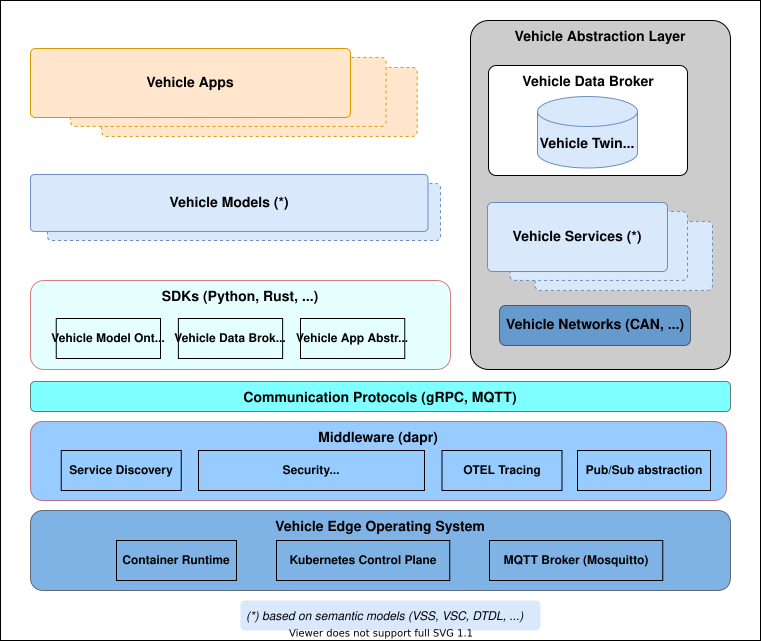
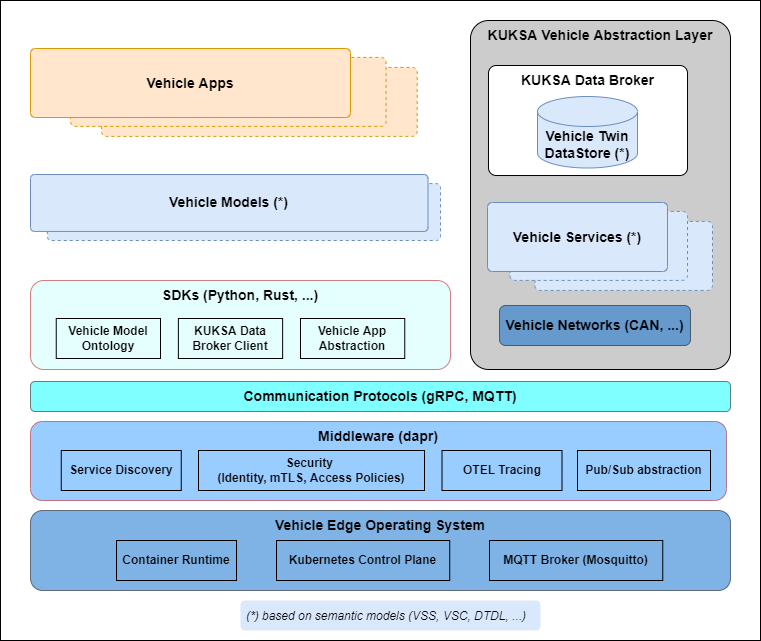
Added detailed description of proxy configuration (#29)
* Added detailed description of proxy configuration
* Solved spelling mistakes
* Solved broken link
* Added and adjusted overview picture
* Adjusted overview picture

diff --git a/content/en/_index.html b/content/en/_index.html
@@ -31,7 +31,7 @@ and GitHub Actions workflow, and comfortable setup of the development environmen
 {{% /blocks/feature %}}
 
 
-{{% blocks/feature icon="fa-solid fa-code" title="Vehicle App Programming Model" url="docs/development-model.md" %}}
+{{% blocks/feature icon="fa-solid fa-code" title="Vehicle App Programming Model" url="docs/development_model.md" %}}
 Simplify coding and debugging of _Vehicle Apps_ that accessing vehicle data points and modifying vehicle functions 
 using the provided SDK for the different programming languages that delegates to the _Vehicle Abstraction Layer_.
 {{% /blocks/feature %}}
@@ -43,17 +43,17 @@ This makes it possible for _Vehicle Apps_ to be portable across different electr
 e.g. the _Vehicle Apps_ do not care whether the seat is controlled via CAN, LIN or some other physical interface.
 {{% /blocks/feature %}}
 
-{{% blocks/feature icon="fab fa-github" title="GitHub Actions Workflow Blueprint" url="docs/concepts/vehicle_app_releases/" %}}
+{{% blocks/feature icon="fab fa-github" title="GitHub Actions Workflow Blueprint" url="docs/concepts/deployment_model/vehicle_app_releases/" %}}
 Providing ready-to-use GitHub workflows to check the _Vehicle App_, build images for multi architectures, scan it, 
 execute integration tests and release the _Vehicle App_ to allow the developer to focus on the development of the _Vehicle App_.
 {{% /blocks/feature %}}
 
-{{% blocks/feature icon="fab fa-github" title="Automated Release Process" url="docs/concepts/vehicle_app_releases/" %}}
+{{% blocks/feature icon="fab fa-github" title="Automated Release Process" url="docs/concepts/deployment_model/vehicle_app_releases/" %}}
 Providing a release workflow to generate release artifacts and documentation out of the CI workflow results and 
 push it to the GitHub container registry to be used by a deployment system.
 {{% /blocks/feature %}}
 
-{{% blocks/feature icon="fa-solid fa-box" title="Deployment Model" url="docs/concepts/deployment-model/" %}}
+{{% blocks/feature icon="fa-solid fa-box" title="Deployment Model" url="docs/concepts/deployment_model/" %}}
 Running and deploying _Vehicle App_ as OCI-compliant container to increase the flexibility to support different programming languages 
 and runtimes to accelerate innovation and development.
 {{% /blocks/feature %}}

diff --git a/assets/scss/section-index.scss b/assets/scss/section-index.scss
@@ -1,0 +1,18 @@
+.section-index {
+
+    .entry {
+        padding: 0px 15px;;
+    }
+
+    h5 {
+        margin-bottom: 0;
+
+        a {
+            font-weight: 700;
+        }
+    }
+
+    p {
+        margin-top: 0;
+    }
+}

diff --git a/content/en/docs/tutorials/quickstart/_index.md b/content/en/docs/tutorials/quickstart/_index.md
@@ -6,6 +6,7 @@ description: >
   Learn how to setup and explore the provided development environment.
 aliases:
   - /docs/tutorials/setup_and_explore_development_environment.md
+  - /docs/tutorials/quickstart.md
   - /docs/setup_and_explore_development_environment.md
 ---
 
@@ -45,55 +46,14 @@ To be able to use the DevContainer, you have to make sure that you fulfill the f
   ```
 
 {{% alert title="Proxy configuration" %}}
-A non proxy configuration is used by default. If you are working behind a corporate proxy you will need to specify proxy settings.
+A non proxy configuration is used by default. If you are working behind a corporate proxy you will need to specify proxy settings: [Working behind a proxy](/docs/tutorials/quickstart/behind_proxy)
 {{% /alert %}}
 
-<details>
-<summary>Please expand for information on configuring proxy settings</summary>
-
-A template configuration using proxies exists in `.devcontainer/Dockerfile.Proxy` and by setting the environment variable `DEVCONTAINER_PROXY` to `.Proxy` the file
-`.devcontainer/Dockerfile.Proxy` will be used instead of `.devcontainer/Dockerfile`.
-
-The template configuration uses the following default configuration:
-
-```
-ENV HTTP_PROXY="http://172.17.0.1:${PROXY_PORT:-3128}"
-```
-
-- If your proxy is not available on `172.17.0.1` then you must modify `.devcontainer/Dockerfile.Proxy`.
-- If your proxy does not use 3128 as port you can set another port in the environment variable `DEVCONTAINER_PROXY_PORT`
-
-#### Windows
-
-1. Edit environment variables for your account
-2. Create an environment variable with name the `DEVCONTAINER_PROXY` and with the value `.Proxy` for your account
-   - Don't forget (dot) in value of the environment variable
-3. If you are using a different Port than 3128 for your Proxy, you have to set another environment variable as follows:
-   - DEVCONTAINER_PROXY_PORT=<PortNumber>
-4. Restart Visual Studio Code to pick up the new environment variable
-
-#### macOS & Linux
-
-```
-echo "export DEVCONTAINER_PROXY=.Proxy" >> ~/.bash_profile
-source ~/.bash_profile
-```
-
-### Proxy troubleshooting
-
-If you experience issues during initial DevContainer build and you want to start over, then you want to make sure you clean all images and volumes in Docker Desktop, otherwise cache might be used. Use the Docker Desktop UI to remove all volumes and containers.
-
-Proxy settings in `~/.docker/config.json` will override settings in `.devcontainer/Dockerfile.Proxy`, which can cause problems.
-In case the DevContainer is still not working, check if proxy settings are set correctly in the Docker user profile (`~/.docker/config.json`), see [Docker Documentation](https://docs.docker.com/network/proxy/) for more details.
-Verify that the `noProxy` setting in `~/.docker/config.json` (if existing) is compatible with the setting of `NO_PROXY` in `.devcontainer/Dockerfile.Proxy`.
-The development environment relies on communication to localhost (e.g. localhost, 127.0.0.1) and it is important that the proxy setting is correct so that connections to localhost are not forwarded to the proxy.
-
-</details>
 
 With following steps you will clone and set up your development environment on your own machine using just Visual Studio Code.
 
 1. Start Visual Studio Code
-2. Press <kbd>F1</kbd> and run the command `Remote-Containers: Clone Repository within Container Volume...`
+2. Press <kbd>F1</kbd> and run the command `Remote-Containers: Clone Repository in Container Volume...`
 3. Select `Clone a repository from GitHub in a Container Volume` and choose the repository / branch to clone
 4. Enter the GitHub organization and repository name (e.g. `MyOrg/MyFirstVehicleApp`) and select the repository from the list
 5. Select the branch to clone from the list
@@ -107,15 +67,15 @@ When opening the DevContainer for the first time, a manual reload of the dapr ex
 <details>
 <summary>Please expand for information on troubleshooting</summary>
 
-> If Visual Studio Code fails to directly clone your repository you can also use a workaround:
+> If Visual Studio Code [fails to directly clone your repository](https://github.com/microsoft/vscode-dev-containers/issues/1585)  you can also use a workaround:
 >
-> 1. clone the repo locally using your favorite Git tooling
+> 1. Clone the repo locally using your favorite Git tooling
 > 1. Start Visual Studio Code
-> 1. select `Open Folder` from the `File` menu
-> 1. open the root of the cloned repo
-> 1. a popup appears on the lower left side of Visual Studio Code
-> 1. click on `Reopen in Container`
-> 1. wait for the container to be set up
+> 1. Select `Open Folder` from the `File` menu
+> 1. Open the root of the cloned repo
+> 1. A popup appears on the lower left side of Visual Studio Code
+> 1. Click on `Reopen in Container`
+> 1. Wait for the container to be set up
 >
 > If the popup does not appear, you can also hit <kbd>F1</kbd> and run the command `Remote-Containers: Open Folder in Container`
 
@@ -133,7 +93,7 @@ You can either try it out directly in the browser or also use it inside Visual S
 To get started with Codespaces, you just have to follow a few steps:
 
 1. Open your repository on GitHub (e.g. <https://github.com/MyOrg/MyFirstVehicleApp>)
-1. Click on the green `Code`-button and select Codespaces on the top
+1. Click on the green `Code` button and select Codespaces on the top
 1. Configure your Codespace if needed (defaults to the main branch and a standard agent)
 1. Click on `create`
 
@@ -213,7 +173,7 @@ The provided release workflow will be triggered by the release. The release work
 
 ## Next steps
 
-- Tutorial: [Creating a Vehicle Model](/docs/tutorials/tutorial_how_to_create_a_vehicle_model.md)
+- Tutorial: [Creating a Vehicle Model](/docs/tutorials/tutorial_how_to_create_a_vehicle_model)
 - Tutorial: [Create a Vehicle App](/docs/tutorials/vehicle-app-development)
 - Tutorial: [Develop and run integration tests for a Vehicle App](/docs/tutorials/integration_tests.md)
 - Concept: [Development Model](/docs/concepts/development-model.md)

diff --git a/content/en/docs/tutorials/quickstart/behind_proxy.md b/content/en/docs/tutorials/quickstart/behind_proxy.md
@@ -1,0 +1,120 @@
+---
+title: "Working behind proxy"
+date: 2022-08-19T17:46:21+05:30
+weight: 2
+description: >
+  Learn how to setup your docker desktop and Visual Studio Code behind a coorperate proxy.
+---
+
+We know how time consuming it could be to setup your environment behind a cooperate proxy. This guide will help you to set it up correctly.
+
+# HTTP(s) proxy server
+
+Install and configure the proxy server as recommented or required by your company. For example you could use [PX](https://github.com/genotrance/px), which is a HTTP(s) proxy server that allows applications to authenticate through an NTLM or Kerberos proxy server, typically used in corporate deployments, without having to deal with the actual handshake. Px leverages Windows SSPI or single sign-on and automatically authenticates using the currently logged in Windows user account. It is also possible to run Px on Windows, Linux and MacOS without single sign-on by configuring the domain, username and password to authenticate with. (Source: [PX](https://github.com/genotrance/px))
+
+- Install your HTTP(s) proxy server
+- Start your HTTP(s) proxy server
+
+# Docker Desktop
+
+You need to install [Docker Desktop](https://www.docker.com/get-started/) using the right version. 
+As we recognized a proxy issue in Docker Desktop [#12672](https://github.com/docker/for-win/issues/12672) we strongly recomment to use a Docker Desktop version >= 4.8.2. In case you have an older version on your machine please update to the current version.
+
+In the next step you need to enter your proxy settings:
+- Open Docker Desktop and go to the Settings
+- From `Resources`, select `Proxies`
+- Enable `Manual proxy configuration`
+- Enter your proxy settings, e.g.:
+  - Web Server (HTTP): `http://localhost:3128`
+  - Secure Web Server (HTTPS): `http://localhost:3128`
+  - Bypass: `localhost,127.0.0.1`
+- Apply & Restart.
+
+# Environment Variables
+
+It is required to set the following environment variables:
+
+- `HTTP_PROXY` - proxy server, e.g. `http://localhost:3128`
+- `HTTPS_PROXY` - secure proxy server, e.g. `http://localhost:3128`
+- `DEVCONTAINER_PROXY` - Enables proxy configuration for the devContainer. Please use `.Proxy` as value and don't forget (dot).
+
+**Unix users**: If you are running on Unix you have to define in addition the environment variable `DEVCONTAINER_PROXY_HOST` to define the internal docker host `172.17.0.1`.
+
+In addition you have the opportunity to use the environment variable `DEVCONTAINER_PROXY_PORT` to define the port in case your proxy is running on a different port than `3128`.
+
+{{< tabpane text=true >}}
+{{% tab header="Windows" %}}
+```bash
+set
+setx DEVCONTAINER_PROXY ".Proxy"
+setx HTTP_PROXY "http://localhost:3128"
+setx HTTPS_PROXY "http://localhost:3128"
+```
+{{% /tab %}}
+{{% tab header="MacOS" %}}
+```bash
+echo "export DEVCONTAINER_PROXY=.Proxy" >> ~/.bash_profile
+echo "export HTTP_PROXY=http://localhost:3128" >> ~/.bash_profile
+echo "export HTTPS_PROXY=http://localhost:3128" >> ~/.bash_profile
+source ~/.bash_profile
+```
+{{% /tab %}}
+{{% tab header="Linux" %}}
+```bash
+echo "export DEVCONTAINER_PROXY=.Proxy" >> ~/.bash_profile
+echo "export HTTP_PROXY=http://localhost:3128" >> ~/.bash_profile
+echo "export HTTPS_PROXY=http://localhost:3128" >> ~/.bash_profile
+echo "export DEVCONTAINER_PROXY_HOST=172.17.0.1" >> ~/.bash_profile
+source ~/.bash_profile
+```
+{{% /tab %}}
+{{< /tabpane >}}
+
+# Visual Studio Code
+
+A template configuration using proxy settings is provided by our template repository with `.devcontainer/Dockerfile.Proxy`. By setting the environment variable `DEVCONTAINER_PROXY` to `.Proxy` the file
+`.devcontainer/Dockerfile.Proxy` will be used instead of `.devcontainer/Dockerfile`.
+
+# Troubleshooting
+
+**Case 1**:
+
+If you experience issues during initial DevContainer build, clean all images and volumes otherwise cache might be used: 
+
+   - Open Docker Desktop 
+   - From `Troubleshooting` choose `Clean / Purge data`
+
+**Case 2**:
+
+Proxy settings in `.devcontainer/Dockerfile.Proxy` will be overridden by `~/.docker/config.json`, which can cause problems. In case the DevContainer is still not working, check if the `~/.docker/config.json` contains the following content:
+
+   {{< tabpane text=true >}}
+   {{% tab header="Windows & MacOS" %}}
+   ```json
+   {
+    "proxies":{
+         "default":{
+            "httpProxy":"http://host.docker.internal:3128",
+            "httpsProxy":"http://host.docker.internal:3128",
+            "noProxy":"host.docker.internal,localhost,127.0.0.1"
+         }
+      }
+   }
+   ```
+   {{% /tab %}}
+   {{% tab header="Linux" %}}
+   ```json
+   {
+    "proxies":{
+         "default":{
+            "httpProxy":"http://172.17.0.1:3128",
+            "httpsProxy":"http://172.17.0.1:3128",
+            "noProxy":"host.docker.internal,localhost,127.0.0.1"
+         }
+      }
+   }
+   ```
+   {{% /tab %}}
+   {{< /tabpane >}}
+
+For more details see: [Docker Documentation](https://docs.docker.com/network/proxy/)

diff --git a/content/en/docs/concepts/deployment_model/vehicle_app_releases/_index.md b/content/en/docs/concepts/deployment_model/vehicle_app_releases/_index.md
@@ -2,9 +2,8 @@
 title: "Build and Release Process"
 date: 2022-05-09T13:43:25+05:30
 weight: 4
-aliases:
-  - /docs/concepts/vehicle_app_releases.md
-  - /docs/velocitas/docs/vehicle_app_releases.md
+resources:
+- src: "**publish_container*.png"
 description: >
   Learn more about the provided continuous integration, and release process of a Vehicle App.
 ---
@@ -21,9 +20,9 @@ The Velocitas project provides a two-stage process for development, continuous i
 
   The workflow bundles all relevant artifacts into one tagged set of files and makes it possible to push this information to the preferred OTA (over-the-air update) system of your choice or use the information for quality assurance and documentation.
 
-The following illustrates the different workflows, actions and artifacts that are automatically created for you. Both workflows are intended as a sensible baseline and can be extended and adapted to your own project's needs.
+The drawing below illustrates the different workflows, actions and artifacts that are automatically created for you. Both workflows are intended as a sensible baseline and can be extended and adapted to your own project's needs.
 
-![](/assets/publish_container.png)
+![Project Overview](./publish_container.png)
 
 ## CI Workflow (ci.yml)
 
@@ -35,6 +34,8 @@ The `CI workflow` is triggered on every commit to the main branch and contains a
 - **Running integration tests** - actions provision a runtime instance and deploy all required services as containers together with your containerized application to allow for automatically executing integration test cases. In case the test cases fail, the workflow will be marked as "failed".
 - **Storing scan & test results as GitHub action artifacts** - actions store results from the previously mentioned actions for further reference or download as Github Action Artifacts.
 - **Publish container images to GitHub Container Registry** - at the end of the workflow, the container images created are stored in a Github Container Registry so that they can be referenced by the release-workflow later.
+
+Check out the example GitHub workflows in our repositories for python (https://github.com/eclipse-velocitas/vehicle-app-python-template/blob/main/.github/workflows/ci.yml)
 
 ## Release Workflow (release.yml)
 
@@ -60,9 +61,7 @@ The GitHub container registry is used for storing container images, which are ge
 
 The **GitHub container registry** does not have an automatic cleanup and keeps container images as long as they are not deleted. It is recommended that you automate the removal of older images to limit storage size and costs.
 
-## Further information
-
-### Versioning
+## Versioning
 
 Vehicle App image versions are set to the Git tag name during release. Though any versioning scheme can be adopted, the usage of [semantic versions](https://semver.org/) is recommended.
 

diff --git a/content/en/docs/tutorials/tutorial_how_to_create_a_vehicle_model/_index.md b/content/en/docs/tutorials/tutorial_how_to_create_a_vehicle_model/_index.md
@@ -72,11 +72,11 @@ Alternative to the generation from a VSS specification you could create the _Veh
 
 Once you have created your Vehicle Model either manually or via the Vehicle Model Generator, you need to distribute your model to use it in an application. Follow the links below for language specific tutorials on how to distribute your freshly created Vehicle Model.
 
-- [Python]/docs/tutorials/how_to_create_a_vehicle_model/distribution_python.md)
+- [Python](/docs/tutorials/how_to_create_a_vehicle_model/distribution_python.md)
 - [C++](/docs/tutorials/how_to_create_a_vehicle_model/distribution_cpp.md)
 
 ## Further information
 
 - Concept: [SDK Overview](/docs/concepts/vehicle_app_sdk_overview.md)
-- Tutorial: [Setup and Explore Development Enviroment](/docs/tutorials/setup_and_explore_development_environment.md)
+- Tutorial: [Setup and Explore Development Enviroment](/docs/tutorials/quickstart)
 - Tutorial: [Create a Vehicle App]({{< ref "/docs/tutorials/vehicle-app-development" >}})

diff --git a/content/en/docs/concepts/deployment_model/_index.md b/content/en/docs/concepts/deployment_model/_index.md
@@ -1,5 +1,5 @@
 ---
-title: "Velocitas Deployment Model"
+title: "Deployment Model"
 date: 2022-05-09T13:43:25+05:30
 weight: 4
 aliases:
@@ -31,7 +31,4 @@ Velocitas uses GitHub workflows to automate the creation of your containerized a
 
 The workflows are set up to support multi-platform container creation and generate container images for amd64 and arm64 out of the box. This provides a great starting point for developers and lets you add additional support for further platforms easily.
 
-Learn more about the concepts of the [Velocitas build and release workflows](/docs/velocitas/docs/vehicle_app_releases.md) and check out the example GitHub workflows in our repositories for python (https://github.com/eclipse-velocitas/vehicle-app-python-template/blob/main/.github/workflows/ci.yml).
-
 ## Further information
-- Tutorial: [Deploy a Vehicle App with Helm](/docs/tutorials/tutorial_how_to_deploy_a_vehicle_app_with_helm)

diff --git a/content/en/docs/tutorials/vehicle-app-development/tutorial_how_to_create_a_vehicle_app_cpp.md b/content/en/docs/tutorials/vehicle-app-development/tutorial_how_to_create_a_vehicle_app_cpp.md
@@ -163,7 +163,7 @@ In order to know which seat to move, you have to pass a `SeatLocation` object as
 
 Interaction with other Vehicle Apps or the cloud is enabled by using Mosquitto MQTT Broker. The MQTT broker runs inside a docker image, which is started automatically after starting the DevContainer.
 
-In the [general section]({{< ref "/docs/tutorials/quickstart.md" >}}) about the Vehicle App, you already tested sending MQTT messages to the app.
+In the [general section]({{< ref "/docs/tutorials/quickstart" >}}) about the Vehicle App, you already tested sending MQTT messages to the app.
 In the previous sections, you generally saw how to use `Vehicle Models`, `Datapoints` and `GRPC Services`. In this section, you will learn how to combine them with MQTT.
 
 In order to receive and process MQTT messages inside your app, simply use the `VehicleApp::subscribeTopic` method provided by the SDK:

diff --git a/content/en/docs/tutorials/vehicle-app-runtime/run_runtime_services_locally.md b/content/en/docs/tutorials/vehicle-app-runtime/run_runtime_services_locally.md
@@ -89,7 +89,7 @@ If you are using Codespaces, remember that you are working on a remote agent. Th
 ## Next steps
 
 - Tutorial: [Deploy runtime services in local Kubernetes cluster](/docs/tutorials/run_runtime_services_kubernetes.md)
-- Tutorial: [Setup and Explore Development Enviroment](/docs/tutorials/setup_and_explore_development_environment.md)
+- Tutorial: [Setup and Explore Development Enviroment](/docs/tutorials/quickstart)
 - Concept: [Deployment Model](/docs/concepts/deployment-model.md)
-- Concept: [Release your Vehicle App](/docs/concepts/vehicle_app_releases.md)
+- Concept: [Build and release process](/docs/concepts/vehicle_app_releases)
 - Tutorial: [Deploy a Python Vehicle App with Helm](/docs/tutorials/tutorial_how_to_deploy_a_vehicle_app_with_helm.md)

diff --git a/content/en/docs/tutorials/vehicle-app-runtime/run_runtime_services_kubernetes.md b/content/en/docs/tutorials/vehicle-app-runtime/run_runtime_services_kubernetes.md
@@ -55,5 +55,5 @@ More information about FeederCan can be found [here](https://github.com/eclipse/
 - Tutorial: [Start runtime services locally](/docs/tutorials/run_runtime_services_locally.md)
 - Tutorial: [Setup and Explore Development Enviroment](/docs/tutorials/setup_and_explore_development_environment.md)
 - Concept: [Deployment Model](/docs/concepts/deployment-model.md)
-- Concept: [Release your Vehicle App](/docs/concepts/vehicle_app_releases.md)
+- Concept: [Build and release process](/docs/concepts/vehicle_app_releases)
 - Tutorial: [Deploy a Python Vehicle App with Helm](/docs/tutorials/tutorial_how_to_deploy_a_vehicle_app_with_helm.md)

diff --git a/content/en/docs/tutorials/integration_tests.md b/content/en/docs/tutorials/integration_tests.md
@@ -133,5 +133,5 @@ The tests will be discovered and executed automatically in the [CI pipeline](htt
 ## Next steps
 
 - Concept: [Deployment Model](/docs/concepts/deployment-model.md)
-- Concept: [Release your Vehicle App](/docs/concepts/vehicle_app_releases.md)
+- Concept: [Build and release process](/docs/concepts/vehicle_app_releases)
 - Tutorial: [Deploy a Python Vehicle App with Helm](/docs/tutorials/tutorial_how_to_deploy_a_vehicle_app_with_helm.md)

diff --git a/content/en/docs/concepts/development_model/_index.md b/content/en/docs/concepts/development_model/_index.md
@@ -20,9 +20,7 @@ The Velocitas development model is centered around what are known as [Vehicle Ap
 
 Velocitas provides a flexible development architecture for [Vehicle Apps](#vehicle-apps). The following diagram shows the major components of the Velocitas stack.
 
-{{< imgproc programming_model Resize "800x" >}}
-  Overview of the progamming model
-{{< /imgproc >}}
+![Programming Model](./programming_model.png)
 
 ### Vehicle Apps
 
